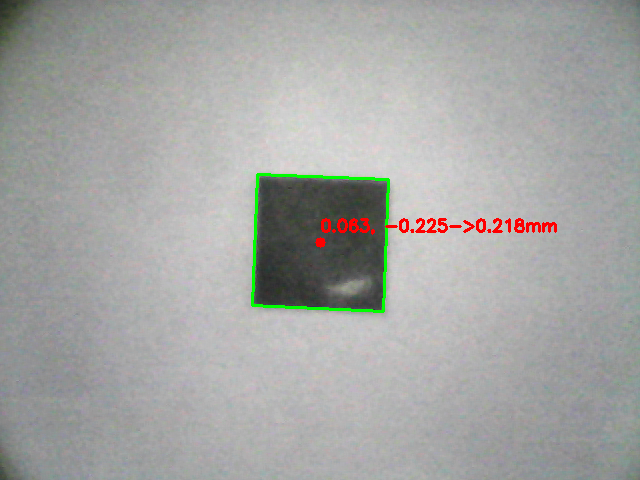
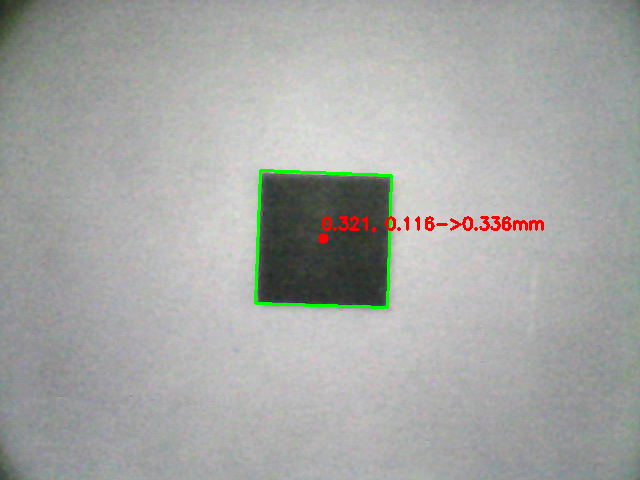
update

Changed region(s): [[0.375, 0.3438, 0.875, 0.6562]]

diff --git a/GroundControl-master/OpticalCalibration/opticalCalibrationCanvas.py b/GroundControl-master/OpticalCalibration/opticalCalibrationCanvas.py
@@ -83,12 +83,13 @@ class OpticalCalibrationCanvas(GridLayout):
     markerWidth         = 0.5*25.4
     inAutoMode = False
     inAutoModeForFirstTime = True
-    inHomingModeForFirstTime = True
+    HomingScanDirection = 1
     HomingX = 0.0
     HomingY = 0.0
     HomingPosx = 0
     HomingPosY = 0
     HomingRange = 2
+    counter =0
 
     #def initialize(self):
 
@@ -102,6 +103,10 @@ class OpticalCalibrationCanvas(GridLayout):
         else:
             print "Failed to open camera"
 
+    def stopCut(self):
+        self.data.quick_queue.put("!")
+        with self.data.gcode_queue.mutex:
+            self.data.gcode_queue.queue.clear()
 
     def on_stop(self):
         self.capture.release()
@@ -170,6 +175,7 @@ class OpticalCalibrationCanvas(GridLayout):
 
     def on_Measure(self, doCalibrate):
         print "here at measure"
+        self.counter += 1
         dxList = [-9999.9 for x in range(10)]
         dyList = [-9999.9 for x in range(10)]
         mxList = [-9999.9 for x in range(10)]
@@ -178,6 +184,8 @@ class OpticalCalibrationCanvas(GridLayout):
         for x in range(10):
             ret, image = self.ids.KivyCamera.getCapture()
             if ret:
+                #cv2.imwrite("image"+str(self.counter)+"-"+str(x)+".png",image)
+                #self.counter += 1
                 self.ids.MeasuredImage.update(image)
                 gray = cv2.cvtColor(image, cv2.COLOR_BGR2GRAY)
                 gray = cv2.GaussianBlur(gray, (5, 5), 0)
@@ -322,7 +330,7 @@ class OpticalCalibrationCanvas(GridLayout):
         self.data.gcode_queue.put("$RST=O ")
 
     def on_AutoHome(self):
-        self.inAutoMode = True
+
         minX = self.HomingRange*-1
         if (minX<-7):
             minY=7
@@ -331,14 +339,22 @@ class OpticalCalibrationCanvas(GridLayout):
         maxX = self.HomingRange
         maxY = minY * -1
 
-        if (self.inAutoModeForFirstTime==True):
+        if self.inAutoMode == False:
+            self.HomingX = 0.0
+            self.HomingY = 0.0
+            self.HomingPosx = 0
+            self.HomingPosY = 0
             self.HomingPosX=minX
             self.HomingPosY=minY
-            self.inAutoModeForFirstTime=False
+            self.inAutoMode = True
         else:
-            self.HomingPosX += 1
-            if (self.HomingPosX==maxX+1):
-                self.HomingPosX = minX
+            self.HomingPosX += self.HomingScanDirection
+            if ((self.HomingPosX==maxX+1) or (self.HomingPosX==minX-1)):
+                if self.HomingPosX == maxX+1:
+                    self.HomingPosX = maxX
+                else:
+                    self.HomingPosX = minX
+                self.HomingScanDirection *= -1
                 self.HomingPosY -= 1
         if (self.HomingPosY!=maxY-1):
             self.HomeIn()
@@ -440,6 +456,7 @@ class OpticalCalibrationCanvas(GridLayout):
             self.HomeIn()
         else:
             print "Averagedx="+str(averagedx)+", Averagedy="+str(averagedy)
+            print str(self.HomingPosX+15)+", "+str(7-self.HomingPosY)+", "+str(self.HomingX)
             self.calErrorsX[self.HomingPosX+15][7-self.HomingPosY] = self.HomingX
             self.calErrorsY[self.HomingPosX+15][7-self.HomingPosY] = self.HomingY
             self.ids.OpticalCalibrationDistance.text = "Pixel\mm: {:.3f}\nCal Error({:.3f},{:.3f})\n".format(self.D, self.calX, self.calY)
@@ -448,6 +465,7 @@ class OpticalCalibrationCanvas(GridLayout):
                     if (abs(y)<=7):
                         self.ids.OpticalCalibrationDistance.text += "[{:.3f},{:.3f}] ".format(self.calErrorsX[x+15][7-y], self.calErrorsY[x+15][7-y])
                 self.ids.OpticalCalibrationDistance.text +="\n"
-
             if (self.inAutoMode):
                 self.on_AutoHome()
+            else:
+                print "Done"
